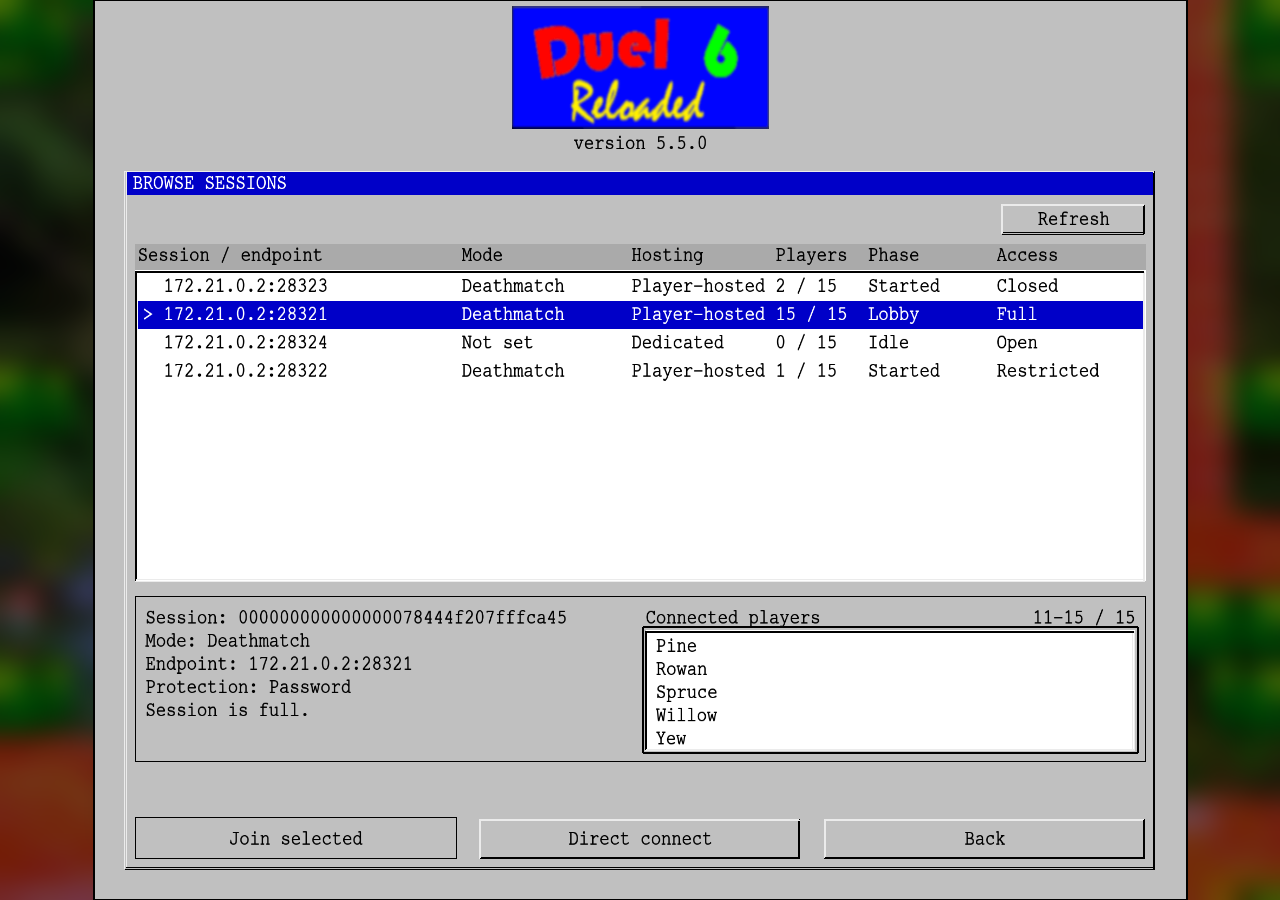
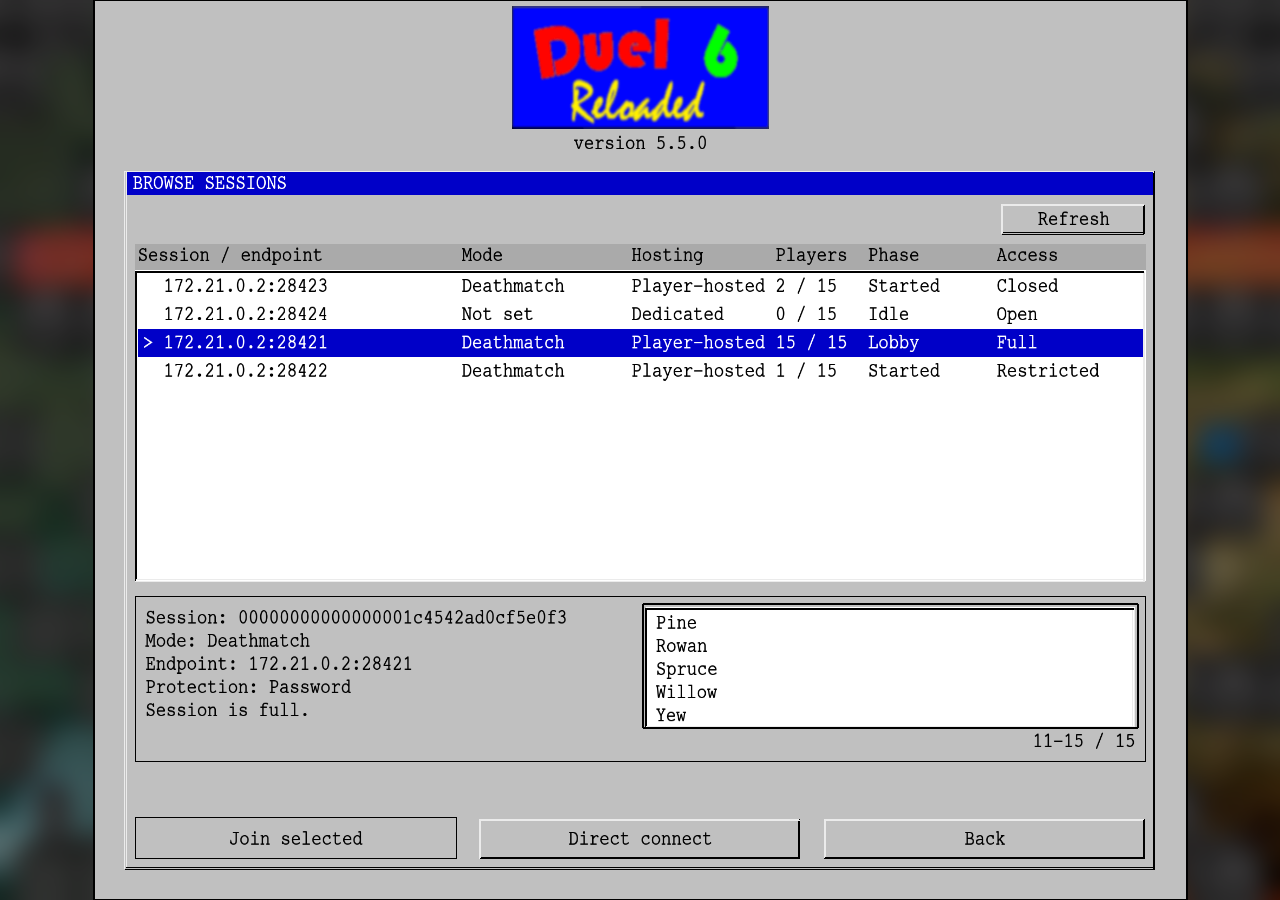
Update the Browse screenshot for the roster footer

diff --git a/docs/design/screenshots/README.md b/docs/design/screenshots/README.md
@@ -1,6 +1,6 @@
 # Current game screenshots
 
-The [screen inventory](../../screens/README.md) owns screen identities; the [design system](../../design.md) and linked wireframes own visual requirements. This catalog records **31 of 35** current representatives. Four rows have no current image. The catalog records visible states only; it does not close behavioral, temporal, constrained-viewport, or native-platform acceptance.
+The [screen inventory](../../screens/README.md) owns screen identities; the [design system](../../design.md) and linked wireframes own visual requirements. This catalog records **32 of 35** current representatives. Three rows have no current image. The catalog records visible states only; it does not close behavioral, temporal, constrained-viewport, or native-platform acceptance.
 
 ## Capture standard
 
@@ -11,7 +11,7 @@ Replace a representative at its stable path when its appearance or representativ
 <a id="current-representative-originals"></a>
 ## Current representatives
 
-**Source and profile.** Except for NET-10-E and NET-10-U noted below, originals use clean source [`dabdc89774962fac3e4951f46a6c5cfc6a18475a`](https://github.com/mkapusnik-apps/duel6r/commit/dabdc89774962fac3e4951f46a6c5cfc6a18475a), Ubuntu 24.04.5 Linux x86-64 Docker Release GL4/Lua ON, shipped font and assets, private 24-bit Xvfb with software OpenGL, dummy audio, and native keyboard/pointer input. The network worker reported Mesa llvmpipe (LLVM 20.1.2), OpenGL 4.5 Core; this is not a per-frame measurement. Local and owned network scenarios used disposable persons and real game outcomes.
+**Source and profile.** Except for the three Browse rows noted below, originals use clean source [`dabdc89774962fac3e4951f46a6c5cfc6a18475a`](https://github.com/mkapusnik-apps/duel6r/commit/dabdc89774962fac3e4951f46a6c5cfc6a18475a), Ubuntu 24.04.5 Linux x86-64 Docker Release GL4/Lua ON, shipped font and assets, private 24-bit Xvfb with software OpenGL, dummy audio, and native keyboard/pointer input. The network worker reported Mesa llvmpipe (LLVM 20.1.2), OpenGL 4.5 Core; this is not a per-frame measurement. Local and owned network scenarios used disposable persons and real game outcomes.
 
[2 lines of base64/hex data omitted]
@@ -51,8 +51,11 @@ Unless otherwise stated, times are UTC on **2026-11-26** at PNG write completion
[6 lines of base64/hex data omitted]
+
[1 lines of base64/hex data omitted]
 
[1 lines of base64/hex data omitted]
 
@@ -62,14 +65,13 @@ The Browse images omit `LAN-first.` as in the prior results capture. They do not
 
 | Representative | Disposition |
 |---|---|
-| <a id="current-net-10"></a>NET-10 | Replace the [prior populated result][pre-count-footer] using the [native capture matrix](../screens/NET-10.md#minimum-native-capture-matrix). The prior original shows the range above the box, not the current count line below it. |
 | <a id="current-ss-019"></a>NET-05 · AP-N / SS-019 | Six-player degraded-but-Connected Guest play was observed on mirrored Duel 16, unlike the unmirrored Local Play reference. No qualifying original shows authoritative Invisibility on both body and held weapon with the opaque comparison. |
 | <a id="current-ss-026"></a>NET-05-C · SS-026 | Withheld: part of the underlying reconnect `End session` button remains visible and clipped below the active confirmation. |
 | <a id="current-net-05-s"></a>NET-05-S | Withheld: the pre-winner score panel clips `Network connection degraded.` in the three-row Listed Host view. The two-row Direct Guest view does not cover that overlap. |
 
 ## Archived evidence
 
-- [Pre-roster NET-10 original][pre-roster].
+- [Pre-roster NET-10 original][pre-roster] and [populated NET-10 original before the count moved below the listbox][pre-count-footer].
 - [Pre-catalog evidence tree][prior-tree], [assessment and focused coverage][prior-manifest], and [legacy SS-* records][legacy]. Earlier findings and provenance apply only to the original bytes and stated scope. For artifacts overwritten before that tree, follow the matching earlier pins in those records.
 - [AP-N role, temporal coverage and open comparisons][arena-matrix] and [FS-G and other final-result evidence limits][final-matrix]. A representative still does not replace these observations or the separate public, role, recovery, and extreme-result requirements.
 - [Accepted public-pilot snapshot and checksums][public-pilot]. Use the pinned checkout with its original checksum paths, not the current catalog.
